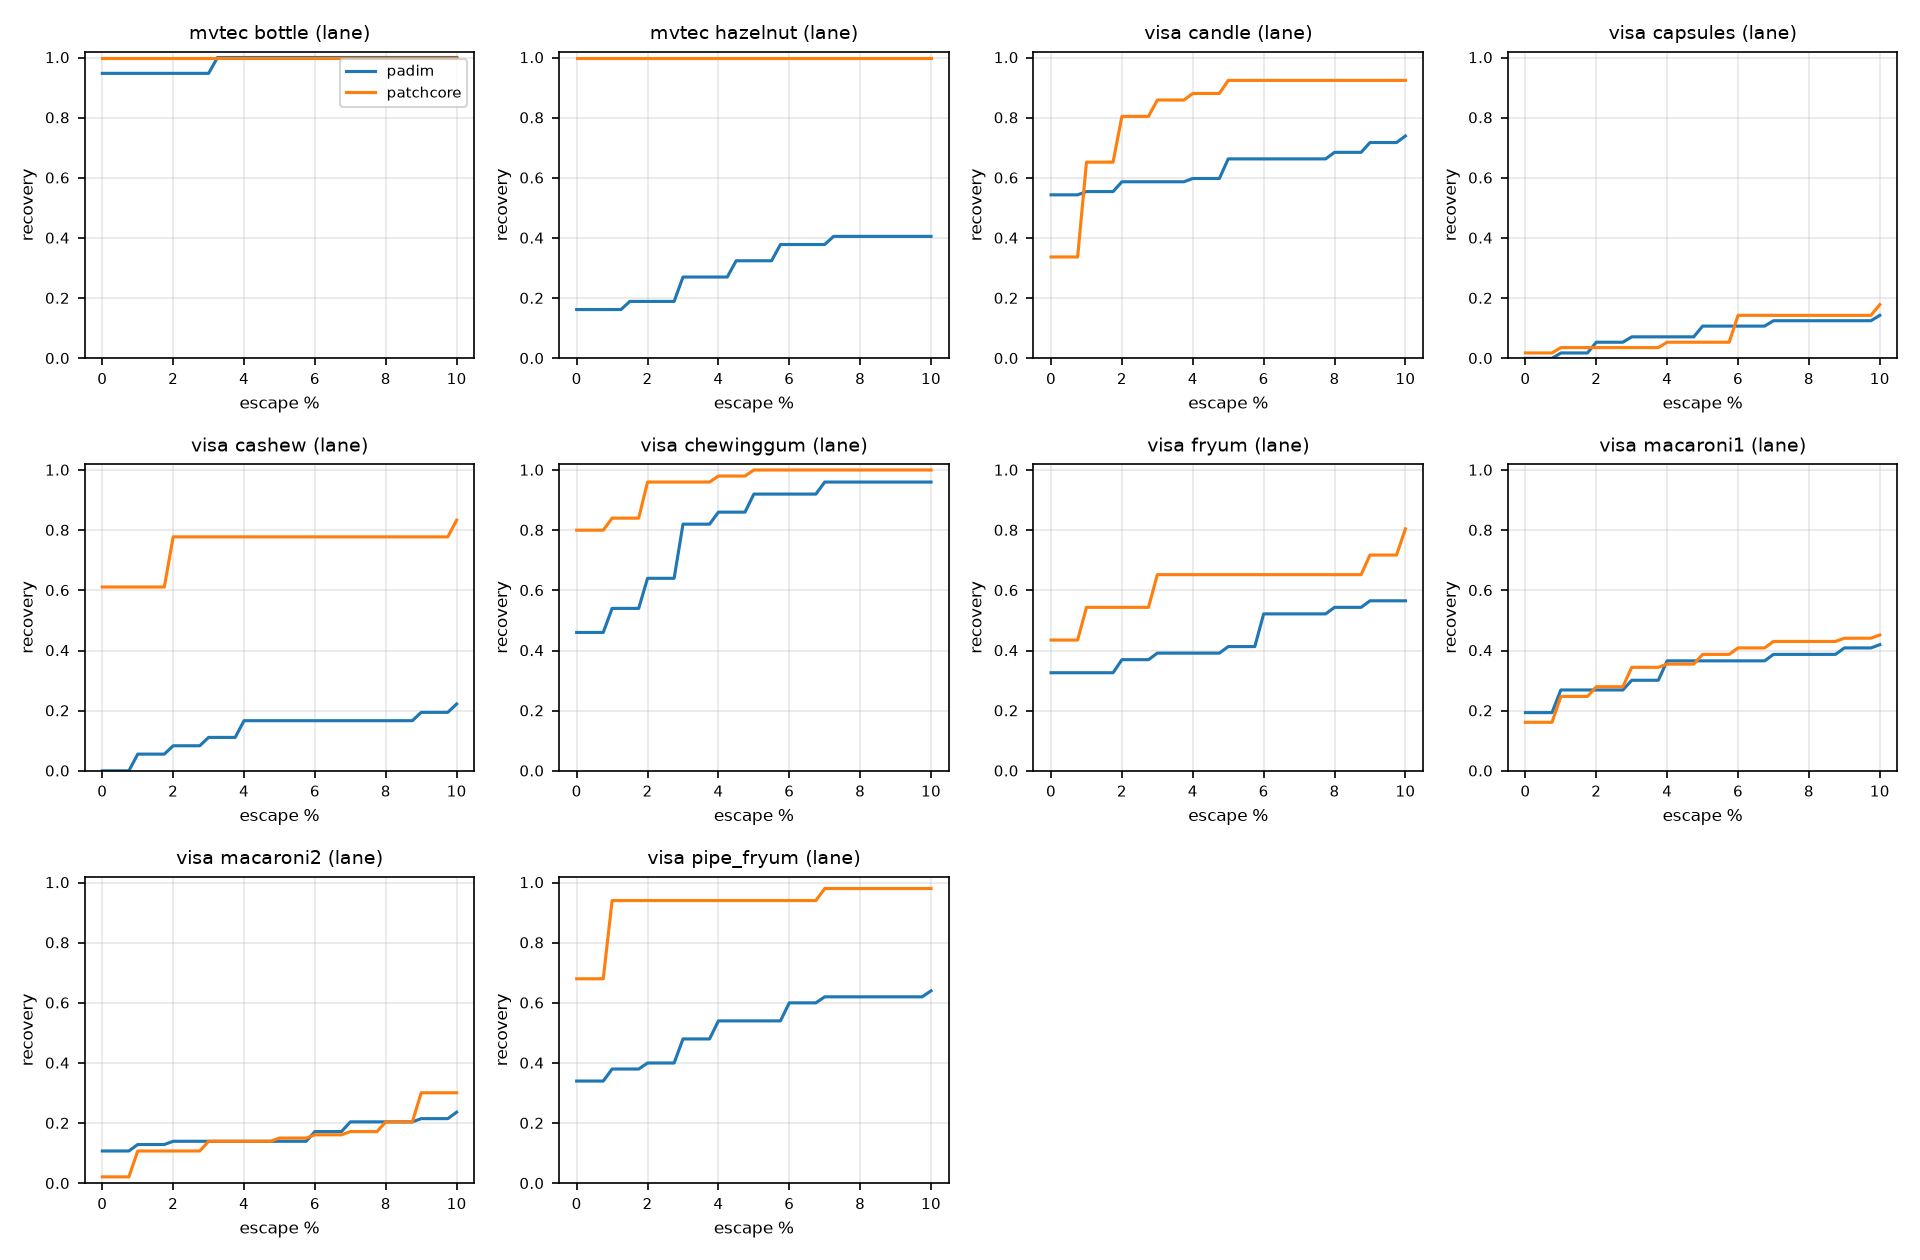
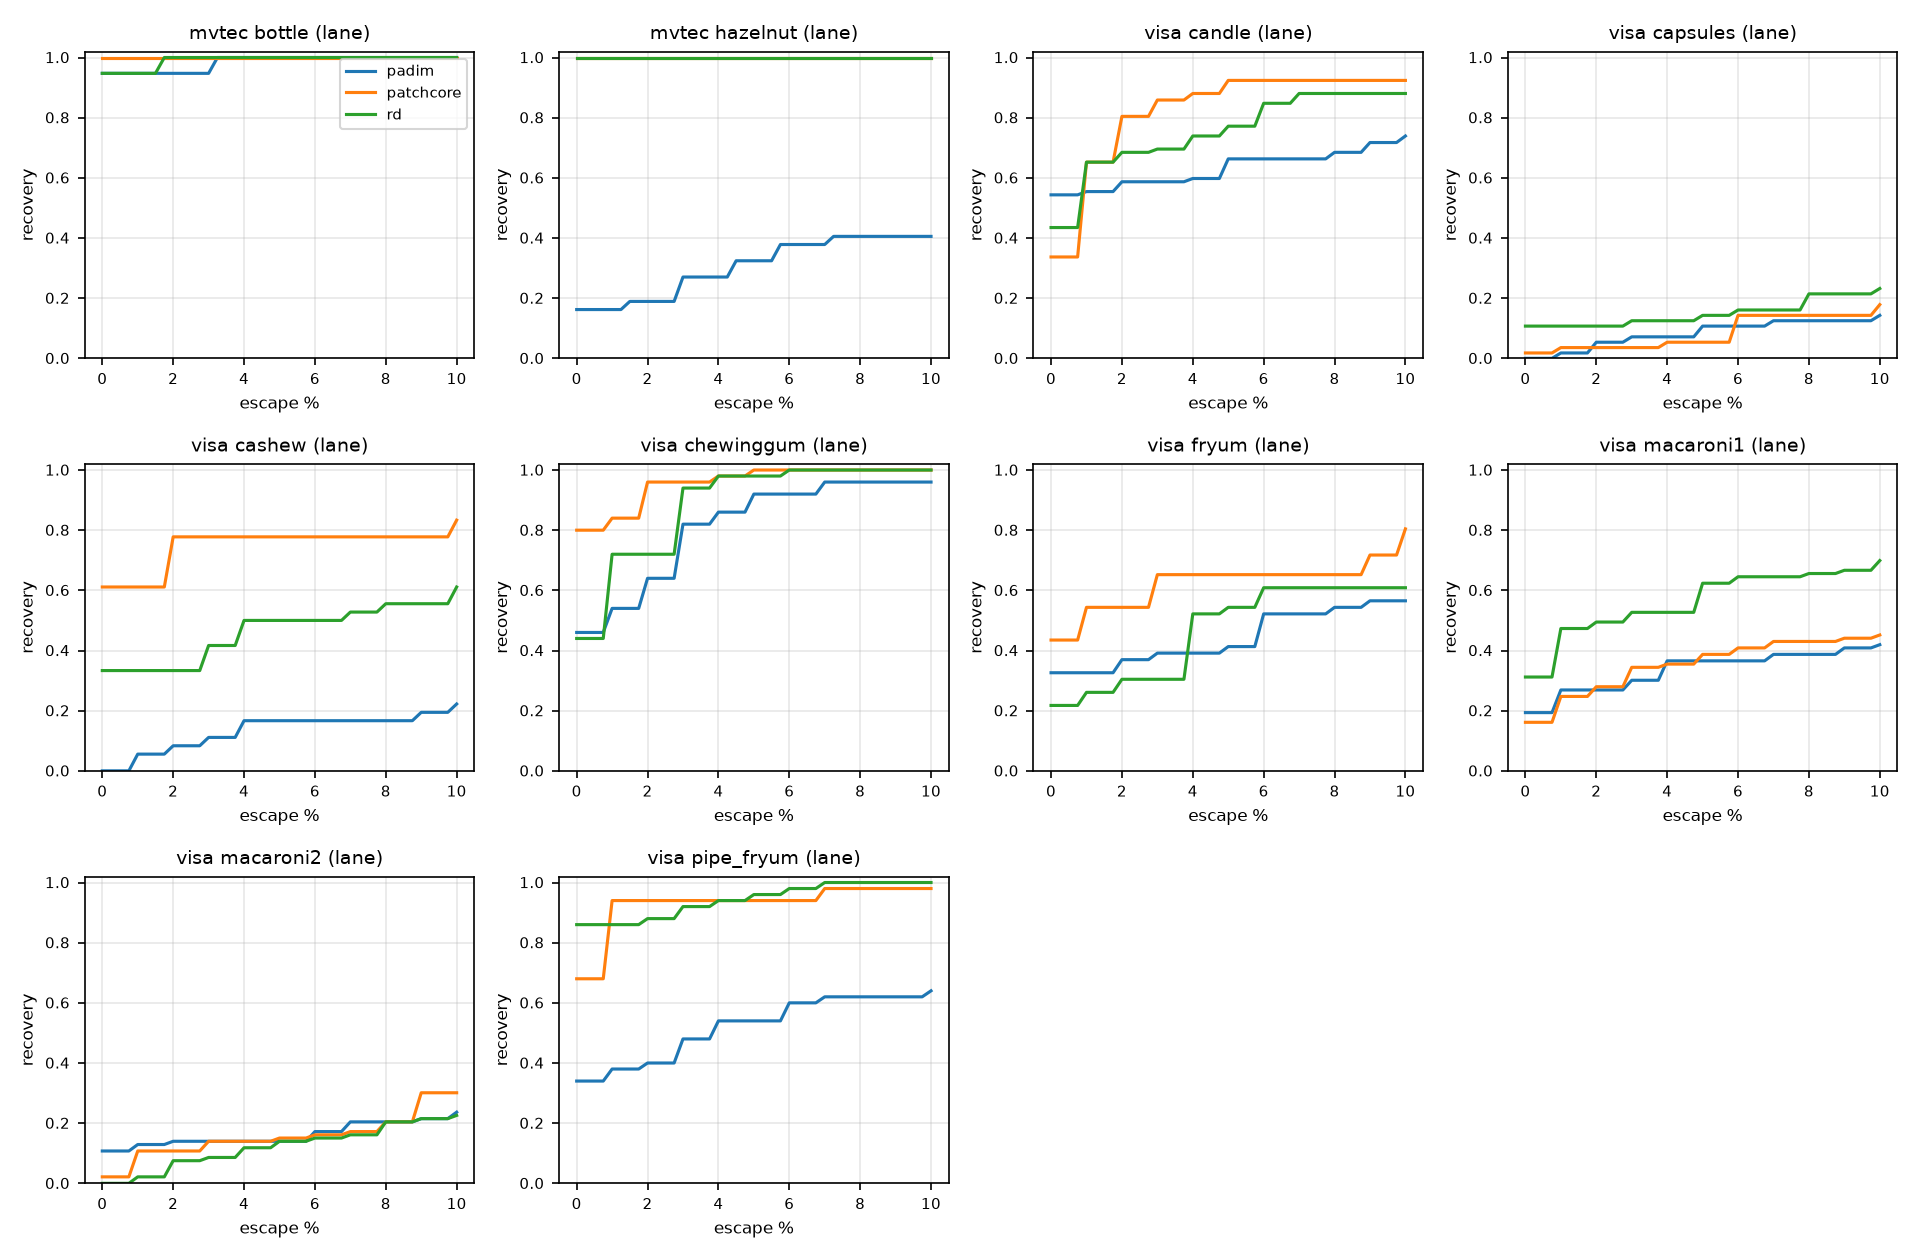
docs: add reverse distillation results

diff --git a/docs/results.md b/docs/results.md
@@ -17,24 +17,34 @@ recovery (auto-good), escape (defects auto-recovered), review (sent to a human).
 |---|---|---|---|---|---|---|---|---|---|---|---|---|---|---|---|---|
 | mvtec | bottle | padim | 20/63 | 1.00 | 0.95 | 0.95 | 1.00 | 0.95 | 0.95 | 0.95 | 1.00 | 0.80 | 0.94 | 0.94 | 1.00 | 10.70 |
 | mvtec | bottle | patchcore | 20/63 | 1.00 | 1.00 | 1.00 | 1.00 | 0.95 | 1.00 | 1.00 | 1.00 | 0.80 | 1.00 | 1.00 | 1.00 | 18.70 |
+| mvtec | bottle | rd | 20/63 | 1.00 | 0.95 | 0.95 | 1.00 | 0.95 | 0.95 | 0.95 | 1.00 | 0.80 | 0.94 | 0.94 | 1.00 | 128.20 |
 | mvtec | hazelnut | padim | 40/70 | 0.62 | 0.15 | 0.15 | 0.30 | 0.93 | 0.16 | 0.16 | 0.32 | 0.78 | 0.10 | 0.10 | 0.29 | 13.00 |
 | mvtec | hazelnut | patchcore | 40/70 | 1.00 | 1.00 | 1.00 | 1.00 | 0.93 | 1.00 | 1.00 | 1.00 | 0.78 | 1.00 | 1.00 | 1.00 | 25.80 |
+| mvtec | hazelnut | rd | 40/70 | 1.00 | 1.00 | 1.00 | 1.00 | 0.93 | 1.00 | 1.00 | 1.00 | 0.78 | 1.00 | 1.00 | 1.00 | 130.40 |
 | visa | candle | padim | 100/100 | 0.93 | 0.55 | 0.58 | 0.68 | 0.92 | 0.54 | 0.55 | 0.66 | 0.95 | 0.56 | 0.58 | 0.67 | 8.90 |
 | visa | candle | patchcore | 100/100 | 0.97 | 0.33 | 0.66 | 0.93 | 0.92 | 0.34 | 0.65 | 0.92 | 0.95 | 0.33 | 0.65 | 0.93 | 37.30 |
+| visa | candle | rd | 100/100 | 0.95 | 0.42 | 0.67 | 0.78 | 0.92 | 0.43 | 0.65 | 0.77 | 0.95 | 0.42 | 0.65 | 0.77 | 123.00 |
 | visa | capsules | padim | 60/100 | 0.58 | 0.00 | 0.02 | 0.12 | 0.93 | 0.00 | 0.02 | 0.11 | 0.97 | 0.00 | 0.02 | 0.10 | 10.10 |
 | visa | capsules | patchcore | 60/100 | 0.72 | 0.02 | 0.03 | 0.05 | 0.93 | 0.02 | 0.04 | 0.05 | 0.97 | 0.02 | 0.03 | 0.03 | 25.70 |
+| visa | capsules | rd | 60/100 | 0.79 | 0.10 | 0.10 | 0.13 | 0.93 | 0.11 | 0.11 | 0.14 | 0.97 | 0.09 | 0.09 | 0.12 | 131.50 |
 | visa | cashew | padim | 50/100 | 0.84 | 0.06 | 0.20 | 0.28 | 0.72 | 0.00 | 0.06 | 0.17 | 0.78 | 0.03 | 0.15 | 0.26 | 10.90 |
 | visa | cashew | patchcore | 50/100 | 0.97 | 0.66 | 0.66 | 0.80 | 0.72 | 0.61 | 0.61 | 0.78 | 0.78 | 0.62 | 0.62 | 0.77 | 25.10 |
+| visa | cashew | rd | 50/100 | 0.87 | 0.38 | 0.38 | 0.52 | 0.72 | 0.33 | 0.33 | 0.50 | 0.78 | 0.41 | 0.41 | 0.54 | 126.80 |
 | visa | chewinggum | padim | 50/100 | 0.98 | 0.46 | 0.54 | 0.92 | 1.00 | 0.46 | 0.54 | 0.92 | 0.86 | 0.47 | 0.53 | 0.91 | 10.40 |
 | visa | chewinggum | patchcore | 50/100 | 1.00 | 0.80 | 0.84 | 1.00 | 1.00 | 0.80 | 0.84 | 1.00 | 0.86 | 0.79 | 0.84 | 1.00 | 24.60 |
+| visa | chewinggum | rd | 50/100 | 0.99 | 0.44 | 0.72 | 0.98 | 1.00 | 0.44 | 0.72 | 0.98 | 0.86 | 0.40 | 0.70 | 0.98 | 125.70 |
 | visa | fryum | padim | 50/100 | 0.84 | 0.36 | 0.36 | 0.44 | 0.92 | 0.33 | 0.33 | 0.41 | 0.98 | 0.35 | 0.35 | 0.43 | 9.40 |
 | visa | fryum | patchcore | 50/100 | 0.96 | 0.46 | 0.56 | 0.68 | 0.92 | 0.43 | 0.54 | 0.65 | 0.98 | 0.47 | 0.57 | 0.67 | 22.50 |
+| visa | fryum | rd | 50/100 | 0.88 | 0.20 | 0.24 | 0.52 | 0.92 | 0.22 | 0.26 | 0.54 | 0.98 | 0.20 | 0.24 | 0.53 | 124.50 |
 | visa | macaroni1 | padim | 100/100 | 0.70 | 0.20 | 0.28 | 0.38 | 0.93 | 0.19 | 0.27 | 0.37 | 0.99 | 0.20 | 0.28 | 0.38 | 7.90 |
 | visa | macaroni1 | patchcore | 100/100 | 0.81 | 0.16 | 0.24 | 0.38 | 0.93 | 0.16 | 0.25 | 0.39 | 0.99 | 0.16 | 0.24 | 0.38 | 35.10 |
+| visa | macaroni1 | rd | 100/100 | 0.89 | 0.31 | 0.48 | 0.64 | 0.93 | 0.31 | 0.47 | 0.62 | 0.99 | 0.31 | 0.48 | 0.64 | 123.10 |
 | visa | macaroni2 | padim | 100/100 | 0.60 | 0.12 | 0.14 | 0.15 | 0.93 | 0.11 | 0.13 | 0.14 | 0.96 | 0.10 | 0.12 | 0.14 | 8.00 |
 | visa | macaroni2 | patchcore | 100/100 | 0.66 | 0.02 | 0.11 | 0.15 | 0.93 | 0.02 | 0.11 | 0.15 | 0.96 | 0.02 | 0.10 | 0.15 | 35.50 |
+| visa | macaroni2 | rd | 100/100 | 0.64 | 0.00 | 0.02 | 0.14 | 0.93 | 0.00 | 0.02 | 0.14 | 0.96 | 0.00 | 0.02 | 0.15 | 125.40 |
 | visa | pipe_fryum | padim | 50/100 | 0.89 | 0.34 | 0.38 | 0.54 | 1.00 | 0.34 | 0.38 | 0.54 | 1.00 | 0.34 | 0.38 | 0.54 | 9.80 |
 | visa | pipe_fryum | patchcore | 50/100 | 0.99 | 0.68 | 0.94 | 0.94 | 1.00 | 0.68 | 0.94 | 0.94 | 1.00 | 0.68 | 0.94 | 0.94 | 22.80 |
+| visa | pipe_fryum | rd | 50/100 | 0.99 | 0.86 | 0.86 | 0.96 | 1.00 | 0.86 | 0.86 | 0.96 | 1.00 | 0.86 | 0.86 | 0.96 | 133.30 |
 
 ## Calibrated band on the lane (held-out folds, escape target 1%)
 
@@ -44,42 +54,62 @@ recovery (auto-good), escape (defects auto-recovered), review (sent to a human).
 | mvtec | bottle | padim | pca | 16 | 0.93 | 0.02 | 0.00 | 0.98 | 0.06 |
 | mvtec | bottle | patchcore | template | 19 | 1.00 | 0.03 | 0.00 | 1.00 | 0.06 |
 | mvtec | bottle | patchcore | pca | 16 | 1.00 | 0.03 | 0.00 | 1.00 | 0.06 |
+| mvtec | bottle | rd | template | 19 | 1.00 | 0.02 | 0.00 | 1.00 | 0.06 |
+| mvtec | bottle | rd | pca | 16 | 0.93 | 0.02 | 0.00 | 0.99 | 0.06 |
 | mvtec | hazelnut | padim | template | 37 | 0.16 | 0.01 | 0.89 | 0.83 | 0.05 |
 | mvtec | hazelnut | padim | pca | 31 | 0.10 | 0.01 | 0.90 | 0.89 | 0.05 |
 | mvtec | hazelnut | patchcore | template | 37 | 1.00 | 0.01 | 0.00 | 1.00 | 0.05 |
 | mvtec | hazelnut | patchcore | pca | 31 | 1.00 | 0.01 | 0.00 | 1.00 | 0.05 |
+| mvtec | hazelnut | rd | template | 37 | 1.00 | 0.01 | 0.00 | 1.00 | 0.05 |
+| mvtec | hazelnut | rd | pca | 31 | 1.00 | 0.01 | 0.00 | 1.00 | 0.05 |
 | visa | candle | padim | template | 92 | 0.55 | 0.02 | 0.41 | 0.97 | 0.04 |
 | visa | candle | padim | pca | 95 | 0.57 | 0.02 | 0.38 | 0.96 | 0.04 |
 | visa | candle | patchcore | template | 92 | 0.38 | 0.01 | 0.41 | 0.96 | 0.04 |
 | visa | candle | patchcore | pca | 95 | 0.37 | 0.01 | 0.42 | 0.96 | 0.04 |
+| visa | candle | rd | template | 92 | 0.51 | 0.01 | 0.45 | 0.97 | 0.04 |
+| visa | candle | rd | pca | 95 | 0.44 | 0.01 | 0.47 | 0.96 | 0.04 |
 | visa | capsules | padim | template | 56 | 0.00 | 0.01 | 0.88 | 0.88 | 0.04 |
 | visa | capsules | padim | pca | 58 | 0.02 | 0.01 | 0.89 | 0.88 | 0.04 |
 | visa | capsules | patchcore | template | 56 | 0.02 | 0.01 | 0.71 | 0.95 | 0.04 |
 | visa | capsules | patchcore | pca | 58 | 0.02 | 0.01 | 0.71 | 0.96 | 0.04 |
+| visa | capsules | rd | template | 56 | 0.10 | 0.01 | 0.67 | 0.96 | 0.04 |
+| visa | capsules | rd | pca | 58 | 0.08 | 0.01 | 0.67 | 0.96 | 0.04 |
 | visa | cashew | padim | template | 36 | 0.03 | 0.01 | 0.60 | 0.98 | 0.04 |
 | visa | cashew | padim | pca | 39 | 0.05 | 0.01 | 0.60 | 0.98 | 0.04 |
 | visa | cashew | patchcore | template | 36 | 0.61 | 0.01 | 0.24 | 0.98 | 0.04 |
 | visa | cashew | patchcore | pca | 39 | 0.61 | 0.01 | 0.24 | 0.97 | 0.04 |
+| visa | cashew | rd | template | 36 | 0.33 | 0.01 | 0.51 | 0.95 | 0.04 |
+| visa | cashew | rd | pca | 39 | 0.41 | 0.01 | 0.50 | 0.97 | 0.04 |
 | visa | chewinggum | padim | template | 50 | 0.48 | 0.01 | 0.21 | 0.98 | 0.04 |
 | visa | chewinggum | padim | pca | 43 | 0.49 | 0.01 | 0.20 | 0.97 | 0.04 |
 | visa | chewinggum | patchcore | template | 50 | 0.82 | 0.01 | 0.06 | 0.98 | 0.04 |
 | visa | chewinggum | patchcore | pca | 43 | 0.79 | 0.01 | 0.06 | 0.97 | 0.04 |
+| visa | chewinggum | rd | template | 50 | 0.48 | 0.01 | 0.19 | 0.99 | 0.04 |
+| visa | chewinggum | rd | pca | 43 | 0.44 | 0.01 | 0.18 | 0.98 | 0.04 |
 | visa | fryum | padim | template | 46 | 0.33 | 0.01 | 0.66 | 0.95 | 0.04 |
 | visa | fryum | padim | pca | 49 | 0.35 | 0.01 | 0.67 | 0.96 | 0.04 |
 | visa | fryum | patchcore | template | 46 | 0.50 | 0.03 | 0.23 | 0.99 | 0.04 |
 | visa | fryum | patchcore | pca | 49 | 0.51 | 0.03 | 0.24 | 0.99 | 0.04 |
+| visa | fryum | rd | template | 46 | 0.24 | 0.01 | 0.54 | 0.97 | 0.04 |
+| visa | fryum | rd | pca | 49 | 0.22 | 0.01 | 0.52 | 0.98 | 0.04 |
 | visa | macaroni1 | padim | template | 93 | 0.20 | 0.01 | 0.84 | 0.50 | 0.04 |
 | visa | macaroni1 | padim | pca | 99 | 0.21 | 0.01 | 0.84 | 0.46 | 0.04 |
 | visa | macaroni1 | patchcore | template | 93 | 0.19 | 0.02 | 0.71 | 0.93 | 0.04 |
 | visa | macaroni1 | patchcore | pca | 99 | 0.16 | 0.02 | 0.73 | 0.93 | 0.04 |
+| visa | macaroni1 | rd | template | 93 | 0.34 | 0.01 | 0.60 | 0.94 | 0.04 |
+| visa | macaroni1 | rd | pca | 99 | 0.35 | 0.01 | 0.59 | 0.95 | 0.04 |
 | visa | macaroni2 | padim | template | 93 | 0.11 | 0.01 | 0.88 | 0.84 | 0.04 |
 | visa | macaroni2 | padim | pca | 96 | 0.11 | 0.01 | 0.88 | 0.75 | 0.04 |
 | visa | macaroni2 | patchcore | template | 93 | 0.02 | 0.01 | 0.88 | 0.86 | 0.04 |
 | visa | macaroni2 | patchcore | pca | 96 | 0.04 | 0.01 | 0.88 | 0.89 | 0.04 |
+| visa | macaroni2 | rd | template | 93 | 0.01 | 0.01 | 0.91 | 0.72 | 0.04 |
+| visa | macaroni2 | rd | pca | 96 | 0.01 | 0.01 | 0.92 | 0.82 | 0.04 |
 | visa | pipe_fryum | padim | template | 50 | 0.36 | 0.01 | 0.55 | 0.98 | 0.04 |
 | visa | pipe_fryum | padim | pca | 50 | 0.36 | 0.01 | 0.55 | 0.98 | 0.04 |
 | visa | pipe_fryum | patchcore | template | 50 | 0.76 | 0.01 | 0.09 | 0.98 | 0.04 |
 | visa | pipe_fryum | patchcore | pca | 50 | 0.76 | 0.01 | 0.09 | 0.98 | 0.04 |
+| visa | pipe_fryum | rd | template | 50 | 0.86 | 0.01 | 0.05 | 0.96 | 0.04 |
+| visa | pipe_fryum | rd | pca | 50 | 0.86 | 0.01 | 0.05 | 0.96 | 0.04 |
 
 The 95% escape bound is the Clopper-Pearson upper limit on the true escape rate
 when zero escapes are observed on the calibration defects (80% of the test defects).
@@ -111,6 +141,16 @@ Figures: `docs/figures/auroc_vs_recovery.png`, `docs/figures/recovery_curves.png
 | macaroni1 | patchcore | 93 | 0.19 | 0.02 | 0.06 | 0.02 | 0.12 | 0.67 |
 | macaroni2 | patchcore | 93 | 0.02 | 0.01 | 0.00 | 0.02 | 0.03 | 0.57 |
 | pipe_fryum | patchcore | 50 | 0.76 | 0.01 | 0.50 | 0.01 | 0.20 | 0.94 |
+| bottle | rd | 19 | 1.00 | 0.02 | 0.95 | 0.02 | 0.34 | 0.97 |
+| hazelnut | rd | 37 | 1.00 | 0.01 | 1.00 | 0.00 | 0.44 | 1.00 |
+| candle | rd | 92 | 0.51 | 0.01 | 0.38 | 0.01 | 0.29 | 0.87 |
+| capsules | rd | 56 | 0.10 | 0.01 | 0.02 | 0.02 | 0.06 | 0.63 |
+| cashew | rd | 36 | 0.33 | 0.01 | 0.55 | 0.01 | 0.06 | 0.81 |
+| chewinggum | rd | 50 | 0.48 | 0.01 | 0.58 | 0.03 | 0.39 | 0.94 |
+| fryum | rd | 46 | 0.24 | 0.01 | 0.48 | 0.00 | 0.10 | 0.81 |
+| macaroni1 | rd | 93 | 0.34 | 0.01 | 0.15 | 0.01 | 0.15 | 0.73 |
+| macaroni2 | rd | 93 | 0.01 | 0.01 | 0.04 | 0.00 | 0.02 | 0.56 |
+| pipe_fryum | rd | 50 | 0.86 | 0.01 | 0.50 | 0.01 | 0.28 | 0.93 |
 
 Reading: with 40 to 90 lane goods per category the classifier does not beat the raw score;
 the map statistics carry no information the max does not. Separability (nn purity up to 0.94)
